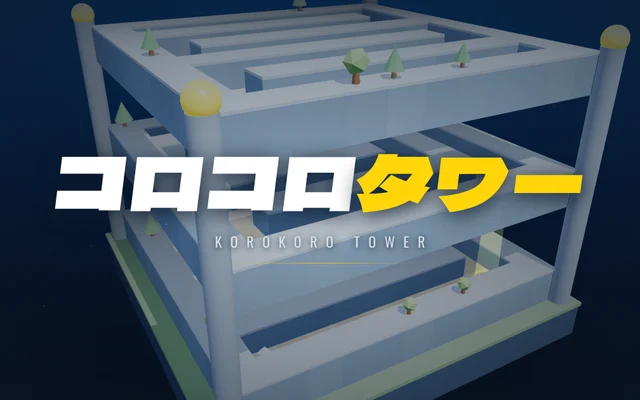
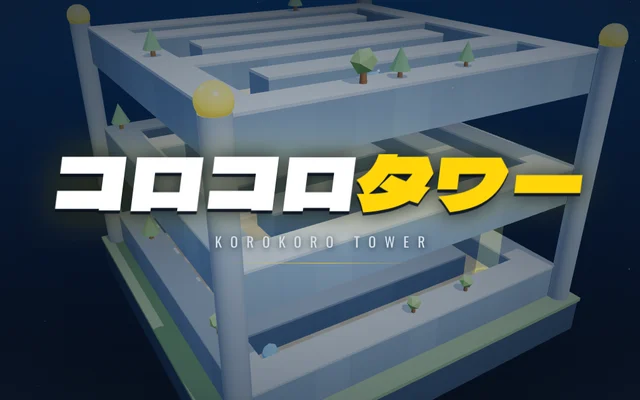
コロコロタワー：ロゴを1グループで光彩＋ドロップシャドウ、球を赤・クリスタルを青いダイヤ＋キラキラに、デバッグメニュー追加
Claude-Session: https://claude.ai/code/session_01XJ9ANyeUE1xpoHz6BcLguz

diff --git a/public/apps/korokoro-tower/index.html b/public/apps/korokoro-tower/index.html
@@ -26,7 +26,8 @@ button{font-family:inherit;cursor:pointer;-webkit-appearance:none;appearance:non
 /* title */
 #scrTitle{background:radial-gradient(ellipse at 50% 40%,rgba(14,26,43,0) 0%,rgba(14,26,43,.35) 60%,rgba(14,26,43,.85) 100%)}
 .logoWrap{display:flex;flex-direction:column;align-items:center;margin-top:-8vh}
-.logo{font-family:"Dela Gothic One",sans-serif;font-weight:400;font-size:min(12.2vw,84px);line-height:1.1;transform:skewX(-7deg);text-shadow:0 6px 34px rgba(14,26,43,.95);white-space:nowrap;letter-spacing:0}
+.logo{-webkit-touch-callout:none;font-family:"Dela Gothic One",sans-serif;font-weight:400;font-size:min(12.2vw,84px);line-height:1.1;transform:skewX(-7deg);white-space:nowrap;letter-spacing:0;filter:drop-shadow(0 5px 0 rgba(9,17,29,.85)) drop-shadow(0 0 16px rgba(9,17,29,.9)) drop-shadow(0 0 28px rgba(255,214,10,.28))}
+.logo span{text-shadow:none}
 .logo .y{color:var(--y)}
 .logoSub{font-family:Oswald,sans-serif;font-size:15px;letter-spacing:.62em;padding-left:.62em;color:var(--sub);margin-top:16px;text-shadow:0 2px 12px var(--navy);white-space:nowrap}
 .logoRule{width:min(64vw,300px);height:1px;background:linear-gradient(90deg,transparent,var(--y),transparent);margin-top:18px;opacity:.8}
@@ -138,6 +139,12 @@ input[type=range]::-moz-range-thumb{width:22px;height:22px;border-radius:50%;bac
 .btnRow .btn{flex:1;min-width:0;padding:0 10px;font-size:14px}
 #notice{position:fixed;left:16px;right:16px;bottom:calc(env(safe-area-inset-bottom) + 70px);margin:0 auto;max-width:420px;padding:14px 16px;background:var(--panel);border:1px solid var(--y);font-size:13px;font-weight:700;line-height:1.6;text-align:center;opacity:0;transition:opacity .3s;pointer-events:none;z-index:20}
 #notice.on{opacity:1}
+.dbgGrid{width:100%;display:grid;grid-template-columns:repeat(3,1fr);gap:6px;margin-top:8px}
+.dbgGrid button{height:36px;border:1px solid var(--line);background:none;color:#fff;font-family:Oswald,sans-serif;font-size:12px;letter-spacing:.08em;border-radius:2px}
+.dbgGrid button.on{background:var(--y);color:var(--navy);border-color:var(--y)}
+#dbgStages,#dbgFloors{grid-template-columns:repeat(5,1fr)}
+#btnDebug{position:fixed;left:14px;bottom:calc(env(safe-area-inset-bottom) + 14px);z-index:25;height:34px;padding:0 12px;border:1px solid var(--y);background:rgba(14,26,43,.7);color:var(--y);font-family:Oswald;font-size:12px;letter-spacing:.2em;border-radius:2px}
+#fps{position:fixed;left:14px;bottom:calc(env(safe-area-inset-bottom) + 54px);z-index:25;font-family:Oswald;font-size:12px;color:var(--y);text-shadow:0 1px 4px #000}
 #loading{position:fixed;inset:0;display:flex;align-items:center;justify-content:center;font-family:Oswald;letter-spacing:.5em;color:var(--sub);font-size:13px;background:var(--navy);z-index:30}
 </style>
 </head>
@@ -150,7 +157,7 @@ input[type=range]::-moz-range-thumb{width:22px;height:22px;border-radius:50%;bac
   <button id="btnPause" class="pe" aria-label="pause"><i></i><i></i></button>
   <div class="hudCenter"><div class="hudStage" id="hudStage">STAGE 01</div><div id="hudTimer">0:00.00</div></div>
   <div class="hudRight">
-    <div class="hudPill"><svg viewBox="0 0 10 10"><path d="M5 0L9 5L5 10L1 5Z" fill="#7ff0ff"/></svg><span id="hudGem">0/0</span></div>
+    <div class="hudPill"><svg viewBox="0 0 10 10"><path d="M2 3.2L3.6 1H6.4L8 3.2L5 9Z" fill="#bfefff" stroke="#5fd0ff" stroke-width=".6"/></svg><span id="hudGem">0/0</span></div>
     <div class="hudPill hidden" id="hudKey"><svg viewBox="0 0 10 10"><circle cx="3" cy="5" r="2.2" fill="none" stroke="#ffd60a" stroke-width="1.4"/><path d="M5 5H9.5M8 5V7.2" stroke="#ffd60a" stroke-width="1.4" fill="none"/></svg><span>KEY</span></div>
   </div>
   <div id="floorBar"></div>
@@ -264,6 +271,32 @@ input[type=range]::-moz-range-thumb{width:22px;height:22px;border-radius:50%;bac
   </div>
 </section>
 
+<section id="scrDebug" class="scr dim">
+  <div class="panel">
+    <div class="pTitle">DEBUG</div>
+    <div class="secLb">STAGE / FLOOR</div>
+    <div class="dbgGrid" id="dbgStages"></div>
+    <div class="dbgGrid" id="dbgFloors" style="margin-top:6px"></div>
+    <div class="secLb">PLAY</div>
+    <div class="dbgGrid">
+      <button data-dbg="auto">AUTO</button><button data-dbg="freeze">TIME STOP</button><button data-dbg="speed">SPEED x1</button>
+      <button data-dbg="gems">ALL CRYSTAL</button><button data-dbg="key">GET KEY</button><button data-dbg="fps">FPS</button>
+    </div>
+    <div class="secLb">EFFECT</div>
+    <div class="dbgGrid">
+      <button data-dbg="clear3">CLEAR 3</button><button data-dbg="clear1">CLEAR 1</button><button data-dbg="timeup">TIME UP</button>
+      <button data-dbg="fall">FALL</button><button data-dbg="spike">SPIKE</button><button data-dbg="warpfx">WARP FX</button>
+      <button data-dbg="countdown">COUNTDOWN</button><button data-dbg="burst">SPARKLE</button><button data-dbg="toast">TOAST</button>
+    </div>
+    <div class="secLb">DATA</div>
+    <div class="dbgGrid">
+      <button data-dbg="unlock">UNLOCK ALL</button><button data-dbg="allstar">ALL STARS</button><button data-dbg="reset">RESET SAVE</button>
+    </div>
+    <div class="pBtns"><button class="btn" data-dbg="close">CLOSE</button></div>
+  </div>
+</section>
+<button id="btnDebug" class="hidden">DBG</button>
+<div id="fps" class="hidden"></div>
 <div id="notice"></div>
 
 <script src="https://cdnjs.cloudflare.com/ajax/libs/three.js/r128/three.min.js"></script>
@@ -473,7 +506,7 @@ window.addEventListener('keyup',e=>{if(KEYMAP[e.code])input.keys[KEYMAP[e.code]]
 const FH=3.4,R=0.28,G=19;
 const renderer=new THREE.WebGLRenderer({canvas:gl,antialias:true,powerPreference:'high-performance'});
 renderer.setPixelRatio(Math.min(window.devicePixelRatio||1,3));
-renderer.outputEncoding=THREE.sRGBEncoding;renderer.toneMapping=THREE.ACESFilmicToneMapping;renderer.toneMappingExposure=1.05;
+renderer.outputEncoding=THREE.sRGBEncoding;renderer.toneMapping=THREE.ACESFilmicToneMapping;renderer.toneMappingExposure=0.95;
 renderer.shadowMap.enabled=true;renderer.shadowMap.type=THREE.PCFSoftShadowMap;
 const scene=new THREE.Scene();
 const camera=new THREE.PerspectiveCamera(38,1,0.1,200);
@@ -486,7 +519,7 @@ scene.fog=new THREE.Fog(new THREE.Color(0x0e1a2b).convertSRGBToLinear(),16,46);
   const m=new THREE.MeshBasicMaterial({map:new THREE.CanvasTexture(c),side:THREE.BackSide});es.add(new THREE.Mesh(geo,m));
   window.ENVTEX=pm.fromScene(es,0.02).texture;pm.dispose();})();
 const hemi=new THREE.HemisphereLight(0xd8e6ff,0x40465a,0.85);scene.add(hemi);
-const sun=new THREE.DirectionalLight(0xfff0d6,2.1);sun.position.set(5,14,7);sun.castShadow=true;sun.shadow.mapSize.set(2048,2048);sun.shadow.radius=3;
+const sun=new THREE.DirectionalLight(0xfff0d6,1.8);sun.position.set(5,14,7);sun.castShadow=true;sun.shadow.mapSize.set(2048,2048);sun.shadow.radius=3;
 const sc=sun.shadow.camera;sc.left=-7.5;sc.right=7.5;sc.top=7.5;sc.bottom=-7.5;sc.near=1;sc.far=40;sun.shadow.bias=-0.0006;sun.shadow.normalBias=0.02;scene.add(sun);scene.add(sun.target);
 const fill=new THREE.DirectionalLight(0x9fc2ff,0.35);fill.position.set(-6,5,-4);scene.add(fill);
 const pivot=new THREE.Group();scene.add(pivot);
@@ -501,7 +534,7 @@ const GEO={
  wall:new THREE.BoxGeometry(1,1.1,1),
  cap:new THREE.BoxGeometry(1.0,0.07,1.0),
  rim:new THREE.TorusGeometry(0.41,0.06,8,32),
- gem:new THREE.OctahedronGeometry(0.2),
+ gem:(function(){const p=[[0.001,-0.2],[0.2,0.02],[0.2,0.05],[0.12,0.13],[0.001,0.13]].map(a=>new THREE.Vector2(a[0],a[1]));const g=new THREE.LatheGeometry(p,8);return g;})(),
  cone:new THREE.ConeGeometry(0.085,0.3,8),
  bump:new THREE.CylinderGeometry(0.3,0.32,0.36,24),
  band:new THREE.TorusGeometry(0.31,0.04,8,28),
@@ -524,15 +557,17 @@ const GEO={
  holeTube:new THREE.CylinderGeometry(0.4,0.4,0.4,28,1,true),
 };
 /* conveyor arrow texture */
+const SPARKTEX=(function(){const c=document.createElement('canvas');c.width=c.height=64;const x=c.getContext('2d');const g=x.createRadialGradient(32,32,0,32,32,32);g.addColorStop(0,'rgba(255,255,255,1)');g.addColorStop(0.15,'rgba(220,245,255,.7)');g.addColorStop(1,'rgba(160,220,255,0)');x.fillStyle=g;x.beginPath();x.moveTo(32,0);x.quadraticCurveTo(35,29,64,32);x.quadraticCurveTo(35,35,32,64);x.quadraticCurveTo(29,35,0,32);x.quadraticCurveTo(29,29,32,0);x.fill();return new THREE.CanvasTexture(c);})();
+const GLOWTEX=(function(){const c=document.createElement('canvas');c.width=c.height=64;const x=c.getContext('2d');const g=x.createRadialGradient(32,32,0,32,32,32);g.addColorStop(0,'rgba(255,255,255,.9)');g.addColorStop(0.3,'rgba(255,255,255,.35)');g.addColorStop(1,'rgba(255,255,255,0)');x.fillStyle=g;x.fillRect(0,0,64,64);return new THREE.CanvasTexture(c);})();
 const arrowTex=(function(){const c=document.createElement('canvas');c.width=64;c.height=64;const x=c.getContext('2d');x.clearRect(0,0,64,64);x.strokeStyle='#ffd60a';x.lineWidth=7;x.lineCap='round';x.lineJoin='round';
   for(const y of [14,46]){x.beginPath();x.moveTo(16,y+12);x.lineTo(32,y-2);x.lineTo(48,y+12);x.stroke();}
   const tx=new THREE.CanvasTexture(c);tx.wrapS=tx.wrapT=THREE.RepeatWrapping;tx.encoding=THREE.sRGBEncoding;tx.anisotropy=renderer.capabilities.getMaxAnisotropy();return tx;})();
 /* ball texture */
-const ballTex=(function(){const c=document.createElement('canvas');c.width=256;c.height=128;const x=c.getContext('2d');x.fillStyle='#f4f1ea';x.fillRect(0,0,256,128);
-  x.fillStyle='#ffd60a';x.fillRect(0,54,256,20);x.fillStyle='#0e1a2b';x.fillRect(0,50,256,4);x.fillRect(0,74,256,4);
-  x.fillStyle='#0e1a2b';for(let i=0;i<4;i++){x.beginPath();x.arc(32+i*64,24,7,0,Math.PI*2);x.fill();x.beginPath();x.arc(i*64,104,7,0,Math.PI*2);x.fill();}
+const ballTex=(function(){const c=document.createElement('canvas');c.width=256;c.height=128;const x=c.getContext('2d');x.fillStyle='#e0102f';x.fillRect(0,0,256,128);
+  x.fillStyle='#ffffff';x.fillRect(0,54,256,20);x.fillStyle='#0e1a2b';x.fillRect(0,50,256,4);x.fillRect(0,74,256,4);
+  x.fillStyle='#ffffff';for(let i=0;i<4;i++){x.beginPath();x.arc(32+i*64,24,7,0,Math.PI*2);x.fill();x.beginPath();x.arc(i*64,104,7,0,Math.PI*2);x.fill();}
   const tx=new THREE.CanvasTexture(c);tx.encoding=THREE.sRGBEncoding;return tx;})();
-const ball=new THREE.Mesh(new THREE.SphereGeometry(R,32,24),new THREE.MeshStandardMaterial({map:ballTex,roughness:0.2,metalness:0.2,envMap:window.ENVTEX,envMapIntensity:1.0}));
+const ball=new THREE.Mesh(new THREE.SphereGeometry(R,32,24),new THREE.MeshPhysicalMaterial({map:ballTex,roughness:0.28,metalness:0.05,clearcoat:1,clearcoatRoughness:0.08,envMap:window.ENVTEX,envMapIntensity:0.6,emissive:0x2a0008,emissiveIntensity:0.4}));
 ball.castShadow=true;root.add(ball);
 const ballGlow=new THREE.PointLight(0xffd60a,0,2.2);ball.add(ballGlow);
 
@@ -576,7 +611,10 @@ function buildLevel(si){
       if(ch==='I')hex=chk?PAL.ice:PAL.iceB;else if(ch==='M')hex=chk?PAL.mud:PAL.mudB;else if('<>^v'.includes(ch))hex=PAL.conv;else if(ch==='X')hex=PAL.spike;else if(ch==='T')hex=PAL.tp;else if(ch==='G')hex=PAL.goal;else if(ch==='S')hex=PAL.start;
       mtx.makeTranslation(x,-0.2,z);tiles.setMatrixAt(it,mtx);col.setHex(hex).convertSRGBToLinear();tiles.setColorAt(it,col);it++;
       if(ch==='S')fo.start={c,r};
-      if(ch==='*'){const m=new THREE.Mesh(GEO.gem,mkMat(fo,{color:0x9ff8ff,emissive:0x3fe0ff,emissiveIntensity:1.1,roughness:0.1,metalness:0.2}));m.position.set(x,0.38,z);m.castShadow=true;fo.group.add(m);fo.gems.push({c,r,mesh:m,got:false});level.gemTotal++;}
+      if(ch==='*'){const m=new THREE.Mesh(GEO.gem,mkMat(fo,{color:0x0f8fff,emissive:0x0046c8,emissiveIntensity:0.5,roughness:0.12,metalness:0.1,flatShading:true,envMap:window.ENVTEX,envMapIntensity:0.9}));m.position.set(x,0.42,z);m.scale.setScalar(1.25);m.rotation.order='YXZ';m.rotation.x=0.75;m.castShadow=true;fo.group.add(m);
+        const glow=new THREE.Sprite(mkMat(fo,{map:GLOWTEX,color:0x1ec0ff,transparent:true,opacity:0.5,depthWrite:false},THREE.SpriteMaterial));glow.scale.set(0.7,0.7,1);glow.position.set(x,0.42,z);fo.group.add(glow);
+        const sp=[];for(let k=0;k<3;k++){const s2=new THREE.Sprite(mkMat(fo,{map:SPARKTEX,color:0xffffff,transparent:true,blending:THREE.AdditiveBlending,depthWrite:false},THREE.SpriteMaterial));s2.userData={ph:Math.random()*6.28,w:2.2+Math.random()*1.8,ox:(Math.random()-0.5)*0.42,oy:Math.random()*0.32-0.08,oz:(Math.random()-0.5)*0.42};fo.group.add(s2);sp.push(s2);}
+        fo.gems.push({c,r,x,z,mesh:m,glow,sp,got:false});level.gemTotal++;}
       if('<>^v'.includes(ch)){const g=new THREE.Group();const p=new THREE.Mesh(GEO.arrow,mkMat(fo,{map:arrowTex,transparent:true,emissive:0xffb800,emissiveMap:arrowTex,emissiveIntensity:0.6,roughness:0.5,depthWrite:false}));p.rotation.x=-Math.PI/2;g.add(p);
         g.rotation.y={'^':0,'>':-Math.PI/2,'v':Math.PI,'<':Math.PI/2}[ch];g.position.set(x,0.012,z);fo.group.add(g);}
       if(ch==='X'){const sm=mkMat(fo,{color:0xff5a5f,roughness:0.35,metalness:0.4});for(const [dx,dz] of [[-0.22,-0.22],[0.22,-0.22],[-0.22,0.22],[0.22,0.22],[0,0]]){const cn=new THREE.Mesh(GEO.cone,sm);cn.position.set(x+dx,0.15,z+dz);cn.castShadow=true;fo.group.add(cn);}}
@@ -661,7 +699,7 @@ function stepRoll(h){
 }
 function triggers(fo){
   const c=Math.floor(game.px),r=Math.floor(game.pz);const ch=cellAt(fo,c,r);const dc=Math.hypot(game.px-(c+0.5),game.pz-(r+0.5));
-  for(const g of fo.gems){if(!g.got&&Math.hypot(game.px-(g.c+0.5),game.pz-(g.r+0.5))<0.44){g.got=true;game.gems++;AU.gem();updateHud();burst(g.mesh.position.clone(),0x7ff0ff);}}
+  for(const g of fo.gems){if(!g.got&&Math.hypot(game.px-(g.c+0.5),game.pz-(g.r+0.5))<0.44){g.got=true;game.gems++;AU.gem();updateHud();burst(g.mesh.position.clone(),0xdff8ff);sparkBurst(g.mesh.position.clone());}}
   for(const k of fo.keys){if(!k.got&&Math.hypot(game.px-(k.c+0.5),game.pz-(k.r+0.5))<0.44){k.got=true;fo.doorsOpen=true;AU.key();setTimeout(()=>AU.door(),250);toast(t('keyGet'));$('hudKey').classList.remove('hidden');burst(k.mesh.position.clone(),0xffd60a);}}
   if(game.tpLock){let far=true;for(const p of fo.tps)if(Math.hypot(game.px-(p.c+0.5),game.pz-(p.r+0.5))<0.55)far=false;if(far)game.tpLock=false;}
   if(ch==='T'&&!game.tpLock&&dc<0.3){const other=fo.tps.find(p=>p.c!==c||p.r!==r);if(other){game.px=other.c+0.5;game.pz=other.r+0.5;game.tpLock=true;AU.warp();flash=0.5;}}
@@ -678,18 +716,20 @@ function updateFall(dt){const F=game.fall;F.t+=dt;F.vy+=34*dt;F.y-=F.vy*dt;const
 const parts=[];const partGeo=new THREE.SphereGeometry(0.04,6,4);
 function burst(pos,color,ring){const m=lin(new THREE.MeshBasicMaterial({color,transparent:true,opacity:1,depthWrite:false}));for(let i=0;i<(ring?18:14);i++){const p=new THREE.Mesh(partGeo,m);p.position.copy(pos);const a=Math.random()*Math.PI*2,s=ring?2.2:1.5+Math.random()*1.5;
   p.userData={vx:Math.cos(a)*s,vy:ring?0.3:1+Math.random()*2.5,vz:Math.sin(a)*s,life:0.6+Math.random()*0.3,mat:m};root.add(p);parts.push(p);}}
-function updateParts(dt){for(let i=parts.length-1;i>=0;i--){const p=parts[i],u=p.userData;u.life-=dt;u.vy-=6*dt;p.position.x+=u.vx*dt;p.position.y+=u.vy*dt;p.position.z+=u.vz*dt;u.mat.opacity=clamp(u.life*1.6,0,1);if(u.life<=0){root.remove(p);parts.splice(i,1);}}}
+function sparkBurst(pos){for(let i=0;i<8;i++){const m=new THREE.SpriteMaterial({map:SPARKTEX,color:0xffffff,transparent:true,blending:THREE.AdditiveBlending,depthWrite:false});const p=new THREE.Sprite(m);p.position.copy(pos);const a=Math.random()*6.28,s=0.8+Math.random()*1.4;p.scale.set(0.5,0.5,1);p.userData={vx:Math.cos(a)*s,vy:1.2+Math.random()*1.5,vz:Math.sin(a)*s,life:0.7+Math.random()*0.3,mat:m,spr:true};root.add(p);parts.push(p);}}
+function updateParts(dt){for(let i=parts.length-1;i>=0;i--){const p=parts[i],u=p.userData;u.life-=dt;u.vy-=6*dt;p.position.x+=u.vx*dt;p.position.y+=u.vy*dt;p.position.z+=u.vz*dt;u.mat.opacity=clamp(u.life*1.6,0,1);if(u.spr){const k=0.2+u.life*0.6;p.scale.set(k,k,1);u.mat.rotation+=dt*3;}if(u.life<=0){root.remove(p);parts.splice(i,1);}}}
 let flash=0;
 
 /* ---------------- main update ---------------- */
 let clockT=0,snapPending=false;const snapCanvas=document.createElement('canvas');
 function update(dt){
-  clockT+=dt;game.hitCool-=dt;readInput();if(window.__TTtick)window.__TTtick();
+  clockT+=dt;game.hitCool-=dt;readInput();if(DBG.auto)botTick();if(window.__TTtick)window.__TTtick();
   const ko=1-Math.exp(-dt*12);game.tilt.x=lerp(game.tilt.x,input.tx,ko);game.tilt.z=lerp(game.tilt.z,input.tz,ko);
   if(level){
     arrowTex.offset.y-=dt*1.4;
     for(const fo of level.floors){
-      fo.gems.forEach(g=>{if(g.got){g.mesh.scale.multiplyScalar(0.8);g.mesh.visible=g.mesh.scale.x>0.02;}else{g.mesh.rotation.y+=dt*2;g.mesh.position.y=0.38+Math.sin(clockT*3+g.c)*0.06;}});
+      fo.gems.forEach(g=>{if(g.got){g.mesh.scale.multiplyScalar(0.8);g.mesh.visible=g.mesh.scale.x>0.02;g.glow.visible=false;g.sp.forEach(q=>q.visible=false);}else{g.mesh.rotation.y+=dt*1.6;const y=0.42+Math.sin(clockT*3+g.c)*0.06;g.mesh.position.y=y;g.glow.position.y=y;g.glow.material.opacity=(0.26+Math.sin(clockT*4+g.r)*0.1)*fo.fade;
+        g.sp.forEach(q=>{const u=q.userData;const k=Math.pow(Math.max(0,Math.sin(clockT*u.w+u.ph)),6);q.scale.set(0.42*k+0.001,0.42*k+0.001,1);q.material.rotation=clockT*0.8+u.ph;q.position.set(g.x+u.ox,y+u.oy,g.z+u.oz);if(k<0.01){u.ox=(Math.random()-0.5)*0.42;u.oy=Math.random()*0.32-0.08;u.oz=(Math.random()-0.5)*0.42;}});}});
       fo.keys.forEach(k=>{if(k.got){k.mesh.scale.multiplyScalar(0.85);k.mesh.visible=k.mesh.scale.x>0.02;}else{k.mesh.rotation.y+=dt*2.2;k.mesh.position.y=0.42+Math.sin(clockT*3)*0.06;}});
       fo.doors.forEach(d=>{if(fo.doorsOpen&&d.y>-1.2){d.y-=dt*1.6;d.mesh.position.y=0.15+d.y;if(d.y<=-1.2)d.mesh.visible=false;}});
       fo.gates.forEach(g=>{let tgt=gateUp(g,clockT)?1:0;if(tgt===1&&g.h<0.5&&fo===level.floors[game.f]){const ox=clamp(game.px,g.c,g.c+1),oz=clamp(game.pz,g.r,g.r+1);if(Math.hypot(game.px-ox,game.pz-oz)<R+0.02)tgt=0;}
@@ -720,7 +760,7 @@ function updatePlay(dt){
   if(game.mode==='count'){game.count+=dt;const step=Math.floor(game.count/0.75);if(step!==game.countStep){game.countStep=step;const el=$('cdNum');
       if(step<=2){el.textContent=String(3-step);el.className='pop';AU.beep(false);void el.offsetWidth;el.className='pop';}
       else if(step===3){el.textContent='GO';el.className='go pop';AU.beep(true);calibrate();game.mode='roll';setTimeout(()=>{if(state==='play')showScreen(null);},500);}}}
-  else if(game.mode==='roll'||game.mode==='fall'||game.mode==='resp'){game.elapsed+=dt;}
+  else if(game.mode==='roll'||game.mode==='fall'||game.mode==='resp'){if(!DBG.freeze)game.elapsed+=dt;}
   const left=level.st.limit-game.elapsed;$('hudTimer').textContent=fmt(left);$('hudTimer').classList.toggle('warn',left<10&&game.mode!=='goal');
   if(left<=0&&(game.mode==='roll'||game.mode==='fall'||game.mode==='resp')){game.mode='over';game.overT=0;AU.fail();AU.setRoll(0,false);}
   if(game.mode==='roll'){const H=1/120;let acc=dt;while(acc>1e-6){const h=Math.min(H,acc);stepRoll(h);acc-=h;if(game.mode!=='roll')break;}}
@@ -794,7 +834,8 @@ function makeShareImage(){
   if(snapCanvas.width){const iw=snapCanvas.width,ih=snapCanvas.height,s=Math.max(sw/iw,sh/ih);x.drawImage(snapCanvas,sx+(sw-iw*s)/2,sy+(sh-ih*s)/2,iw*s,ih*s);}
   x.restore();x.strokeStyle='rgba(214,223,236,.3)';x.lineWidth=2;x.strokeRect(sx,sy,sw,sh);
   // logo
-  const L=650;x.save();x.translate(L+8,140);x.transform(1,0,-0.12,1,0,0);x.font='400 70px "Dela Gothic One"';x.textBaseline='alphabetic';x.fillStyle='#fff';x.fillText('コロコロ',0,0);const w1=x.measureText('コロコロ').width;x.fillStyle='#ffd60a';x.fillText('タワー',w1,0);x.restore();
+  const L=650;{const lc=document.createElement('canvas');lc.width=560;lc.height=120;const lx=lc.getContext('2d');lx.translate(16,92);lx.transform(1,0,-0.12,1,0,0);lx.font='400 70px "Dela Gothic One"';lx.fillStyle='#fff';lx.fillText('コロコロ',0,0);const w1=lx.measureText('コロコロ').width;lx.fillStyle='#ffd60a';lx.fillText('タワー',w1,0);
+    x.save();x.shadowColor='rgba(255,214,10,.3)';x.shadowBlur=26;x.drawImage(lc,L-8,48);x.shadowColor='rgba(9,17,29,.9)';x.shadowBlur=14;x.drawImage(lc,L-8,48);x.shadowBlur=0;x.shadowOffsetY=5;x.shadowColor='rgba(9,17,29,.85)';x.drawImage(lc,L-8,48);x.restore();}
   x.font='400 20px Oswald';x.fillStyle='#d6dfec';drawSpaced(x,'KOROKORO TOWER',L+4,186,8);
   x.fillStyle='#ffd60a';x.fillRect(L,214,500,2);
   x.font='400 26px Oswald';x.fillStyle='#ffd60a';drawSpaced(x,'STAGE '+String(si+1).padStart(2,'0'),L,262,5);
@@ -810,13 +851,13 @@ function drawSpaced(x,s,px,py,sp){for(const ch of s){x.fillText(ch,px,py);px+=x.
 function fitText(x,s,maxW){if(x.measureText(s).width<=maxW)return s;while(s.length>1&&x.measureText(s+'…').width>maxW)s=s.slice(0,-1);return s+'…';}
 
 /* ---------------- screens ---------------- */
-const SCR=['scrTitle','scrSelect','scrCount','scrPause','scrResult','scrSettings','scrHow'];
+const SCR=['scrTitle','scrSelect','scrCount','scrPause','scrResult','scrSettings','scrHow','scrDebug'];
 let returnTo=null;
 function showScreen(id,keep){SCR.forEach(s=>{if(s!==id&&!(keep&&s===id))$(s).classList.remove('on');});if(id)$(id).classList.add('on');}
 function goTitle(){state='title';$('hud').classList.add('hidden');if(!level||level.si!==0)buildLevel(0);resetFades();showScreen('scrTitle');}
 function goSelect(){state='select';$('hud').classList.add('hidden');renderSelect();if(!level)buildLevel(0);resetFades();showScreen('scrSelect');}
 function resetFades(){if(!level)return;level.floors.forEach(fo=>{fo.fadeT=1;});ballGlow.intensity=0;ball.scale.set(1,1,1);}
-function unlocked(i){return i===0||(save.prog[i-1]&&save.prog[i-1].best!=null);}
+function unlocked(i){return DBG.unlock||i===0||(save.prog[i-1]&&save.prog[i-1].best!=null);}
 function totalStars(){let n=0;for(const k in save.prog)n+=save.prog[k].stars.filter(Boolean).length;return n;}
 function renderSelect(){const L=$('stageList');L.innerHTML='';$('totStars').textContent=totalStars()+' / '+STAGES.length*3;
   STAGES.forEach((st,i)=>{const p=save.prog[i];const un=unlocked(i);const b=document.createElement('button');b.className='stg'+(un?'':' locked')+(p&&p.best!=null?' done':'');
@@ -853,15 +894,83 @@ document.addEventListener('click',e=>{const a=e.target.closest('[data-act]');if(
   }
   e.stopPropagation();
 });
-$('scrTitle').addEventListener('click',e=>{if(e.target.closest('[data-act]'))return;AU.init();AU.resume();enableGyro();AU.ui();setTimeout(checkGyro,1300);goSelect();});
+$('scrTitle').addEventListener('click',e=>{if(e.target.closest('[data-act]'))return;if(typeof suppressTitle!=='undefined'&&suppressTitle){suppressTitle=false;return;}AU.init();AU.resume();enableGyro();AU.ui();setTimeout(checkGyro,1300);goSelect();});
 $('btnPause').addEventListener('click',e=>{e.stopPropagation();AU.ui();pauseGame();});
 document.addEventListener('visibilitychange',()=>{if(document.hidden)pauseGame();});
+
+/* ---------------- debug ---------------- */
+const DBG={on:false,auto:false,freeze:false,speed:1,unlock:false,fps:false,stage:0};
+(function(){let q='';try{q=location.search+location.hash;}catch(e){}if(/debug/i.test(q))DBG.on=true;})();
+let lpTimer=0,suppressTitle=false;
+const logoEl=document.querySelector('.logo');
+logoEl.addEventListener('pointerdown',()=>{clearTimeout(lpTimer);lpTimer=setTimeout(()=>{DBG.on=true;suppressTitle=true;$('btnDebug').classList.remove('hidden');notice('DEBUG MODE ON');},1500);});
+['pointerup','pointercancel','pointerleave'].forEach(ev=>logoEl.addEventListener(ev,()=>clearTimeout(lpTimer)));
+if(DBG.on)$('btnDebug').classList.remove('hidden');
+let dbgReturn=null;
+function openDebug(){if(state==='play')pauseGame();dbgReturn=SCR.find(s=>$(s).classList.contains('on'))||null;DBG.stage=level?level.si:0;renderDebug();showScreen('scrDebug');}
+function closeDebug(){if(state==='paused'){resumeGame();}else showScreen(dbgReturn&&dbgReturn!=='scrDebug'?dbgReturn:(state==='select'?'scrSelect':state==='result'?'scrResult':'scrTitle'));}
+function renderDebug(){const st=$('dbgStages');st.innerHTML='';STAGES.forEach((s,i)=>{const b=document.createElement('button');b.textContent='S'+String(i+1).padStart(2,'0');b.className=i===DBG.stage?'on':'';b.onclick=()=>{DBG.stage=i;renderDebug();};st.appendChild(b);});
+  const fl=$('dbgFloors');fl.innerHTML='';const N=STAGES[DBG.stage].floors.length;for(let f=0;f<N;f++){const b=document.createElement('button');b.textContent=(N-f)+'F';b.onclick=()=>{debugJump(DBG.stage,f);};fl.appendChild(b);}
+  document.querySelectorAll('[data-dbg]').forEach(b=>{const k=b.dataset.dbg;if(k in DBG&&typeof DBG[k]==='boolean')b.classList.toggle('on',DBG[k]);if(k==='speed')b.textContent='SPEED x'+DBG.speed;});}
+function debugJump(si,f){startStage(si);game.countStep=3;game.count=3;game.mode='roll';showScreen(null);
+  if(f>0){for(let i=0;i<f;i++){const fo=level.floors[i];const h=fo.holes[0];level.floors[i].fadeT=0;level.floors[i].fade=0.001;game.px=h.c+0.5;game.pz=h.r+0.5;}
+    game.f=f;game.entry={x:game.px,z:game.pz};game.rootY=f*FH;game.tpLock=true;updateHud();}}
+function entryOf(f){if(f===0){const s=level.floors[0].start;return {x:s.c+0.5,z:s.r+0.5};}const h=level.floors[f-1].holes[0];return {x:h.c+0.5,z:h.r+0.5};}
+function inPlay(){return level&&(state==='play'||state==='paused');}
+document.getElementById('btnDebug').addEventListener('click',e=>{e.stopPropagation();AU.init();openDebug();});
+$('scrDebug').addEventListener('click',e=>{const b=e.target.closest('[data-dbg]');if(!b)return;e.stopPropagation();const k=b.dataset.dbg;AU.init();AU.ui();
+  switch(k){
+    case 'close':closeDebug();return;
+    case 'auto':DBG.auto=!DBG.auto;if(!DBG.auto)input.drag=null;break;
+    case 'freeze':DBG.freeze=!DBG.freeze;break;
+    case 'speed':DBG.speed=DBG.speed===1?2:DBG.speed===2?4:1;break;
+    case 'fps':DBG.fps=!DBG.fps;$('fps').classList.toggle('hidden',!DBG.fps);break;
+    case 'unlock':DBG.unlock=!DBG.unlock;if(state==='select')renderSelect();break;
+    case 'allstar':STAGES.forEach((s,i)=>{save.prog[i]={stars:[true,true,true],best:s.par-1,gems:0};});persist();if(state==='select')renderSelect();notice('ALL STARS');break;
+    case 'reset':save.prog={};persist();notice('SAVE RESET');if(state==='select')renderSelect();break;
+    case 'gems':if(inPlay()){level.floors.forEach(fo=>fo.gems.forEach(g=>{if(!g.got){g.got=true;game.gems++;}}));updateHud();AU.gem();}break;
+    case 'key':if(inPlay()){const fo=level.floors[game.f];fo.keys.forEach(q=>q.got=true);fo.doorsOpen=true;$('hudKey').classList.remove('hidden');closeDebug();AU.key();toast(t('keyGet'));return;}break;
+    case 'clear3':case 'clear1':if(!inPlay())startStage(DBG.stage);closeDebug();showScreen(null);
+      if(k==='clear3'){level.floors.forEach(fo=>fo.gems.forEach(g=>{if(!g.got){g.got=true;game.gems++;}}));game.elapsed=Math.min(level.st.par-0.5,8.88);}else{game.elapsed=level.st.par+5;}
+      {const L=level.N-1;const gl=level.floors[L].goal;for(let i=0;i<L;i++){level.floors[i].fadeT=0;}game.f=L;game.rootY=L*FH;game.px=gl.c+0.5;game.pz=gl.r+0.5;game.mode='goal';game.goalT=0;game.fall={hx:game.px,hz:game.pz};AU.goal();snapPending=true;updateHud();}return;
+    case 'timeup':if(!inPlay())startStage(DBG.stage);closeDebug();showScreen(null);game.mode='roll';game.elapsed=level.st.limit-1.2;return;
+    case 'fall':if(inPlay()&&game.f<level.N-1){closeDebug();const h=level.floors[game.f].holes[0];game.px=h.c+0.5;game.pz=h.r+0.5;startFall(h.c,h.r);return;}break;
+    case 'spike':if(inPlay()){closeDebug();game.mode='resp';game.resp=0;AU.spike();return;}break;
+    case 'warpfx':if(inPlay()){closeDebug();AU.warp();flash=0.5;return;}break;
+    case 'countdown':if(inPlay()){startStage(game.si);return;}startStage(DBG.stage);return;
+    case 'burst':if(inPlay()){closeDebug();const p=ball.position.clone();p.y+=0.3;sparkBurst(p);burst(p,0xdff8ff);AU.gem();return;}break;
+    case 'toast':closeDebug();toast(t('keyGet'));notice(t('gyroNG'));return;
+  }
+  renderDebug();});
+/* auto-play bot */
+const BOT={path:null,pf:-1,idx:0,opened:false};
+function botPlan(){const g=game,fo=level.floors[g.f];const H=level.H,W=level.W;const at=(c,r)=>(r<0||c<0||r>=H||c>=W)?'#':fo.grid[r][c];const tps=fo.tps.map(p=>[p.c,p.r]);
+  const CV={'>':[1,0],'<':[-1,0],'^':[0,-1],'v':[0,1]};
+  function bfs(goal){const s=[Math.floor(g.px),Math.floor(g.pz)];const prev=new Map();prev.set(s+'',null);const q=[s];
+    while(q.length){const [c,r]=q.shift();if(goal(c,r)){const out=[];let k=c+','+r;while(k){out.unshift(k.split(',').map(Number));k=prev.get(k);}return out;}
+      const ch=at(c,r);const nb=[[c+1,r],[c-1,r],[c,r+1],[c,r-1]];if(ch==='T'&&!(c===s[0]&&r===s[1])){const o=tps.find(p=>p[0]!==c||p[1]!==r);if(o)nb.push(o);}
+      for(const [nc,nr] of nb){const n=at(nc,nr),mx=nc-c,mz=nr-r;if(Math.abs(mx)+Math.abs(mz)===1){if(CV[ch]&&CV[ch][0]===-mx&&CV[ch][1]===-mz)continue;if(CV[n]&&CV[n][0]===-mx&&CV[n][1]===-mz)continue;}
+        if(n==='#'||n==='X'||n==='B')continue;if(n==='D'&&!fo.doorsOpen)continue;if(n==='O'&&!goal(nc,nr))continue;const k=nc+','+nr;if(!prev.has(k)){prev.set(k,[c,r]+'');q.push([nc,nr]);}}}return null;}
+  const isT=(c,r)=>g.f===level.N-1?at(c,r)==='G':at(c,r)==='O';
+  let p=bfs(isT);if(!p){const k=fo.keys.find(k=>!k.got);if(k)p=bfs((c,r)=>c===k.c&&r===k.r);}
+  BOT.path=p;BOT.idx=1;BOT.pf=g.f;BOT.opened=fo.doorsOpen;}
+function botTick(){const g=game;if(state!=='play'||g.mode!=='roll'||!level){BOT.path=null;if(input.drag&&input.drag.id===-9)input.drag=null;return;}
+  const fo=level.floors[g.f];if(!BOT.path||BOT.pf!==g.f||fo.doorsOpen!==BOT.opened)botPlan();const P=BOT.path;if(!P){input.drag={id:-9,dx:0,dy:0};return;}
+  let best=BOT.idx,bd=1e9;for(let i=Math.max(0,BOT.idx-1);i<Math.min(P.length,BOT.idx+3);i++){const d=Math.hypot(g.px-P[i][0]-0.5,g.pz-P[i][1]-0.5);if(d<bd){bd=d;best=i;}}if(best>BOT.idx)BOT.idx=best;
+  const cur=P[Math.min(BOT.idx,P.length-1)];if(Math.hypot(g.px-cur[0]-0.5,g.pz-cur[1]-0.5)<0.35&&BOT.idx<P.length-1)BOT.idx++;
+  const tg=P[Math.min(BOT.idx,P.length-1)];if(Math.hypot(g.px-tg[0]-0.5,g.pz-tg[1]-0.5)>2.2){botPlan();return;}
+  const dx=tg[0]+0.5-g.px,dz=tg[1]+0.5-g.pz,d=Math.hypot(dx,dz)||1;const nx=P[Math.min(BOT.idx+1,P.length-1)];const nd=Math.hypot(nx[0]-tg[0],nx[1]-tg[1])||1;
+  const turn=((nx[0]-tg[0])*dx+(nx[1]-tg[1])*dz)/(nd*d)<0.5||BOT.idx>=P.length-1;const ch=cellAt(fo,Math.floor(g.px),Math.floor(g.pz));
+  let vd=3.4;if(turn)vd=Math.min(vd,0.9+d*2.5);if(ch==='I')vd*=0.7;const wx=dx/d*vd,wz=dz/d*vd;
+  input.drag={id:-9,dx:clamp((wx-g.vx)*0.2,-TILT_MAX,TILT_MAX),dy:clamp((wz-g.vz)*0.2,-TILT_MAX,TILT_MAX)};}
 
 /* ---------------- resize & loop ---------------- */
 function resize(){const w=window.innerWidth,h=window.innerHeight;renderer.setSize(w,h,false);camera.aspect=w/h;camera.updateProjectionMatrix();}
 window.addEventListener('resize',resize);resize();
 let last=performance.now();
-function loop(now){const dt=Math.min(0.05,(now-last)/1000);last=now;update(dt);renderer.render(scene,camera);
+let fpsAcc=0,fpsN=0;
+function loop(now){const dt=Math.min(0.05,(now-last)/1000);last=now;for(let i=0;i<DBG.speed;i++)update(dt);renderer.render(scene,camera);
+  if(DBG.fps){fpsAcc+=dt;fpsN++;if(fpsAcc>0.5){$('fps').textContent=Math.round(fpsN/fpsAcc)+' FPS';fpsAcc=0;fpsN=0;}}
   if(snapPending){snapPending=false;try{const c=renderer.domElement;snapCanvas.width=c.width;snapCanvas.height=c.height;snapCanvas.getContext('2d').drawImage(c,0,0);}catch(e){}}
   requestAnimationFrame(loop);}
 applyI18n();buildLevel(0);
